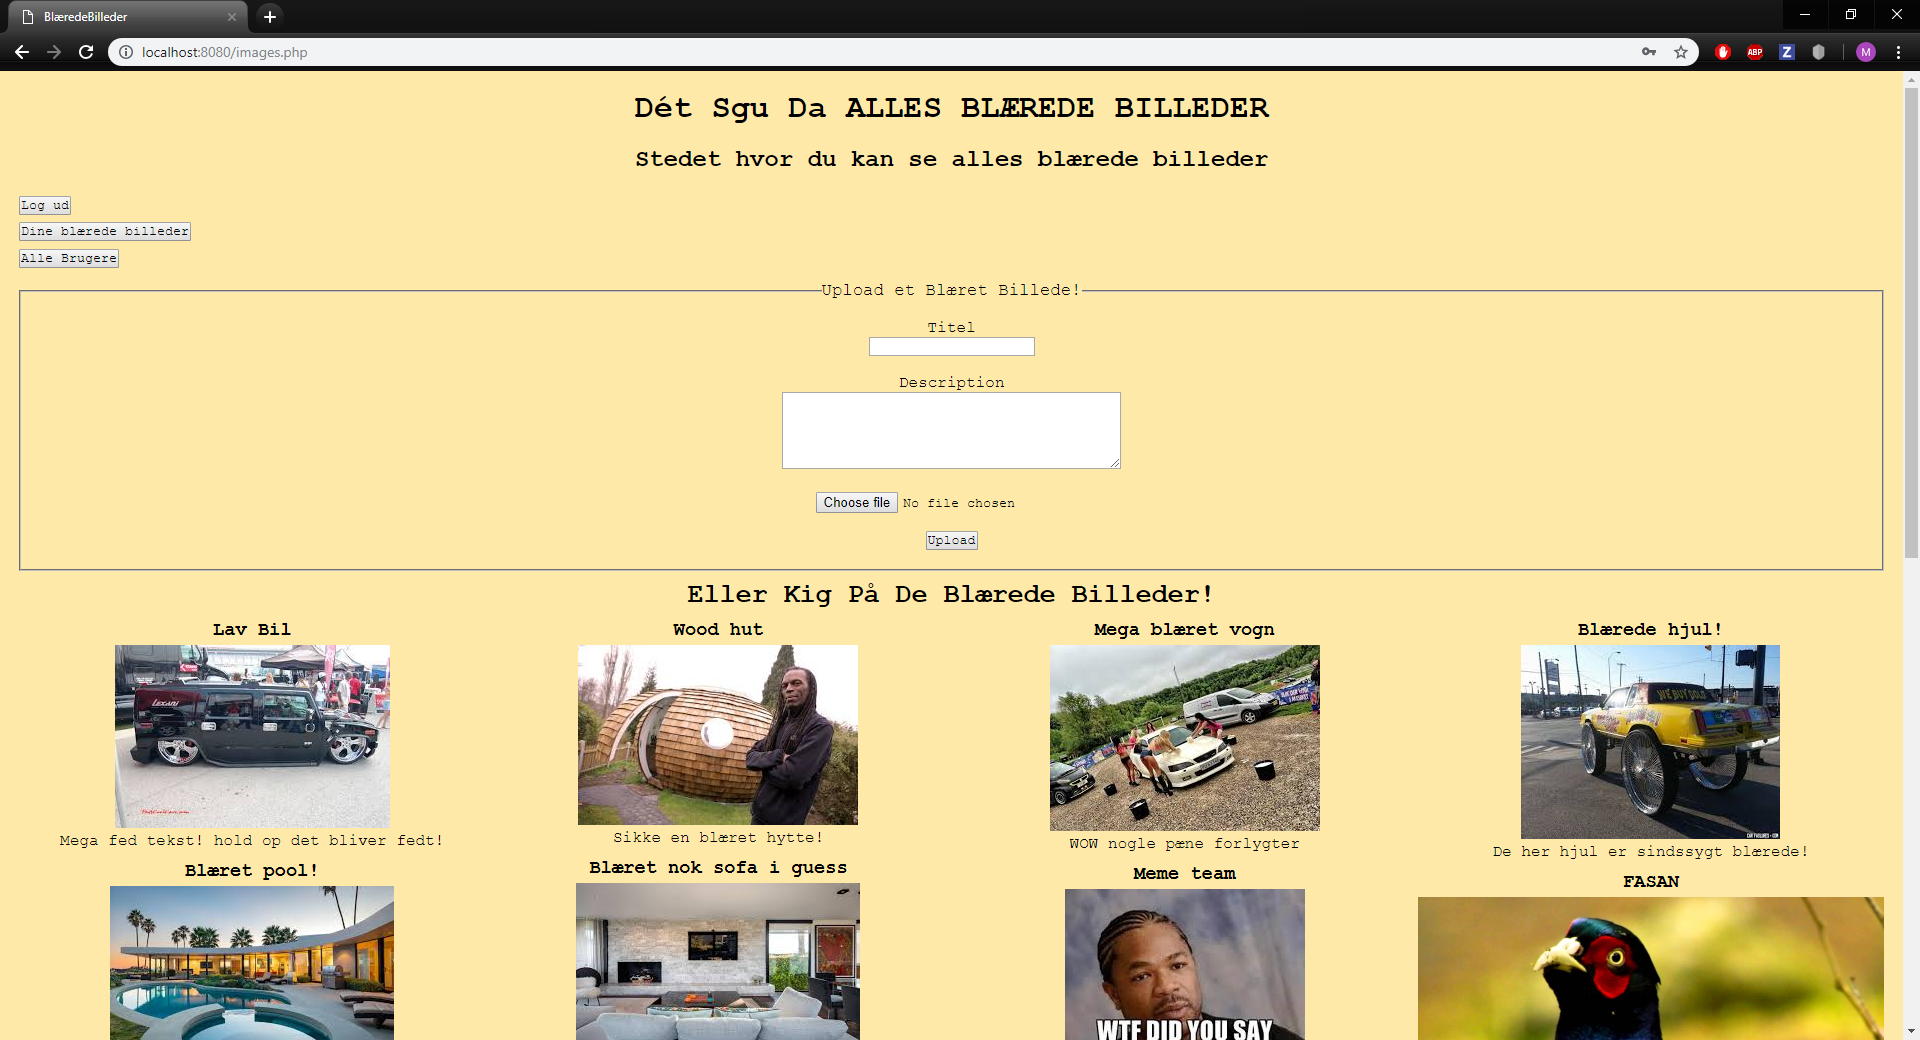
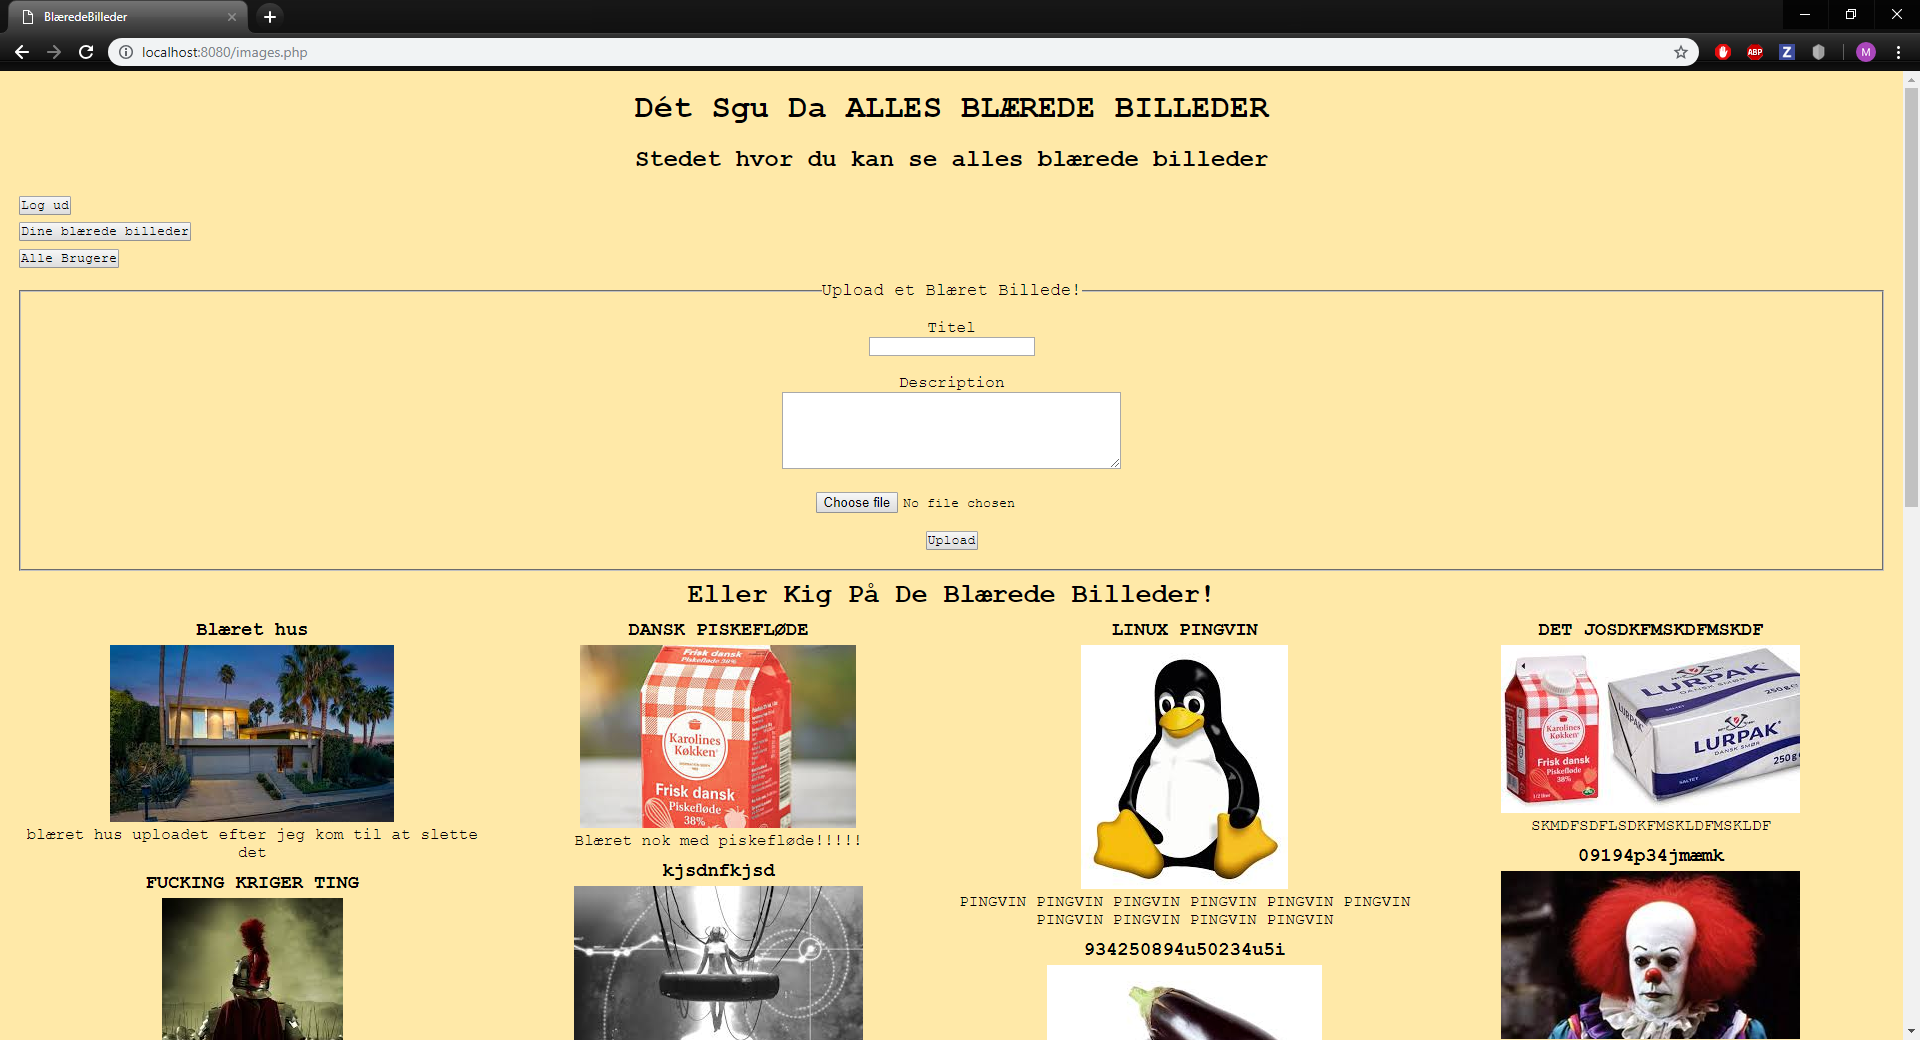
fixed loading in desc order

diff --git a/magle17/assignment1/userImages.php b/magle17/assignment1/userImages.php
@@ -26,8 +26,8 @@ try{
     $username,
     $password,
     array(PDO::ATTR_ERRMODE => PDO::ERRMODE_EXCEPTION));
-    $preparedGetImages=$conn->prepare('SELECT * FROM media where uploaded_by=:userid LIMIT :offset,4');
-    $preparedGetInitialImages=$conn->prepare("SELECT * FROM media where uploaded_by=:userid limit 20");
+    $preparedGetImages=$conn->prepare('SELECT * FROM media where uploaded_by=:userid order by id desc LIMIT :offset,4');
+    $preparedGetInitialImages=$conn->prepare("SELECT * FROM media where uploaded_by=:userid order by id desc limit 20");
     $preparedGetFileName=$conn->prepare("SELECT media_name FROM media where id=:id");
     $preparedRemoveImage=$conn->prepare("DELETE FROM media where id=:id");
 

diff --git a/magle17/assignment1/images.php b/magle17/assignment1/images.php
@@ -28,8 +28,8 @@ try{
     $username,
     $password,
     array(PDO::ATTR_ERRMODE => PDO::ERRMODE_EXCEPTION));
-    $preparedGetImages=$conn->prepare('SELECT * FROM media LIMIT :offset,4');
-    $preparedGetInitialImages=$conn->prepare("SELECT * FROM media limit 20");
+    $preparedGetImages=$conn->prepare('SELECT * FROM media order by id desc LIMIT :offset,4');
+    $preparedGetInitialImages=$conn->prepare("SELECT * FROM media order by id desc limit 20");
     $stmtUploadImage = $conn->prepare("INSERT INTO media (uploaded_by, media_name, title, description) VALUES (:userID, :imageName, :title, :description)");
 
 } catch (PDOException $e) {
